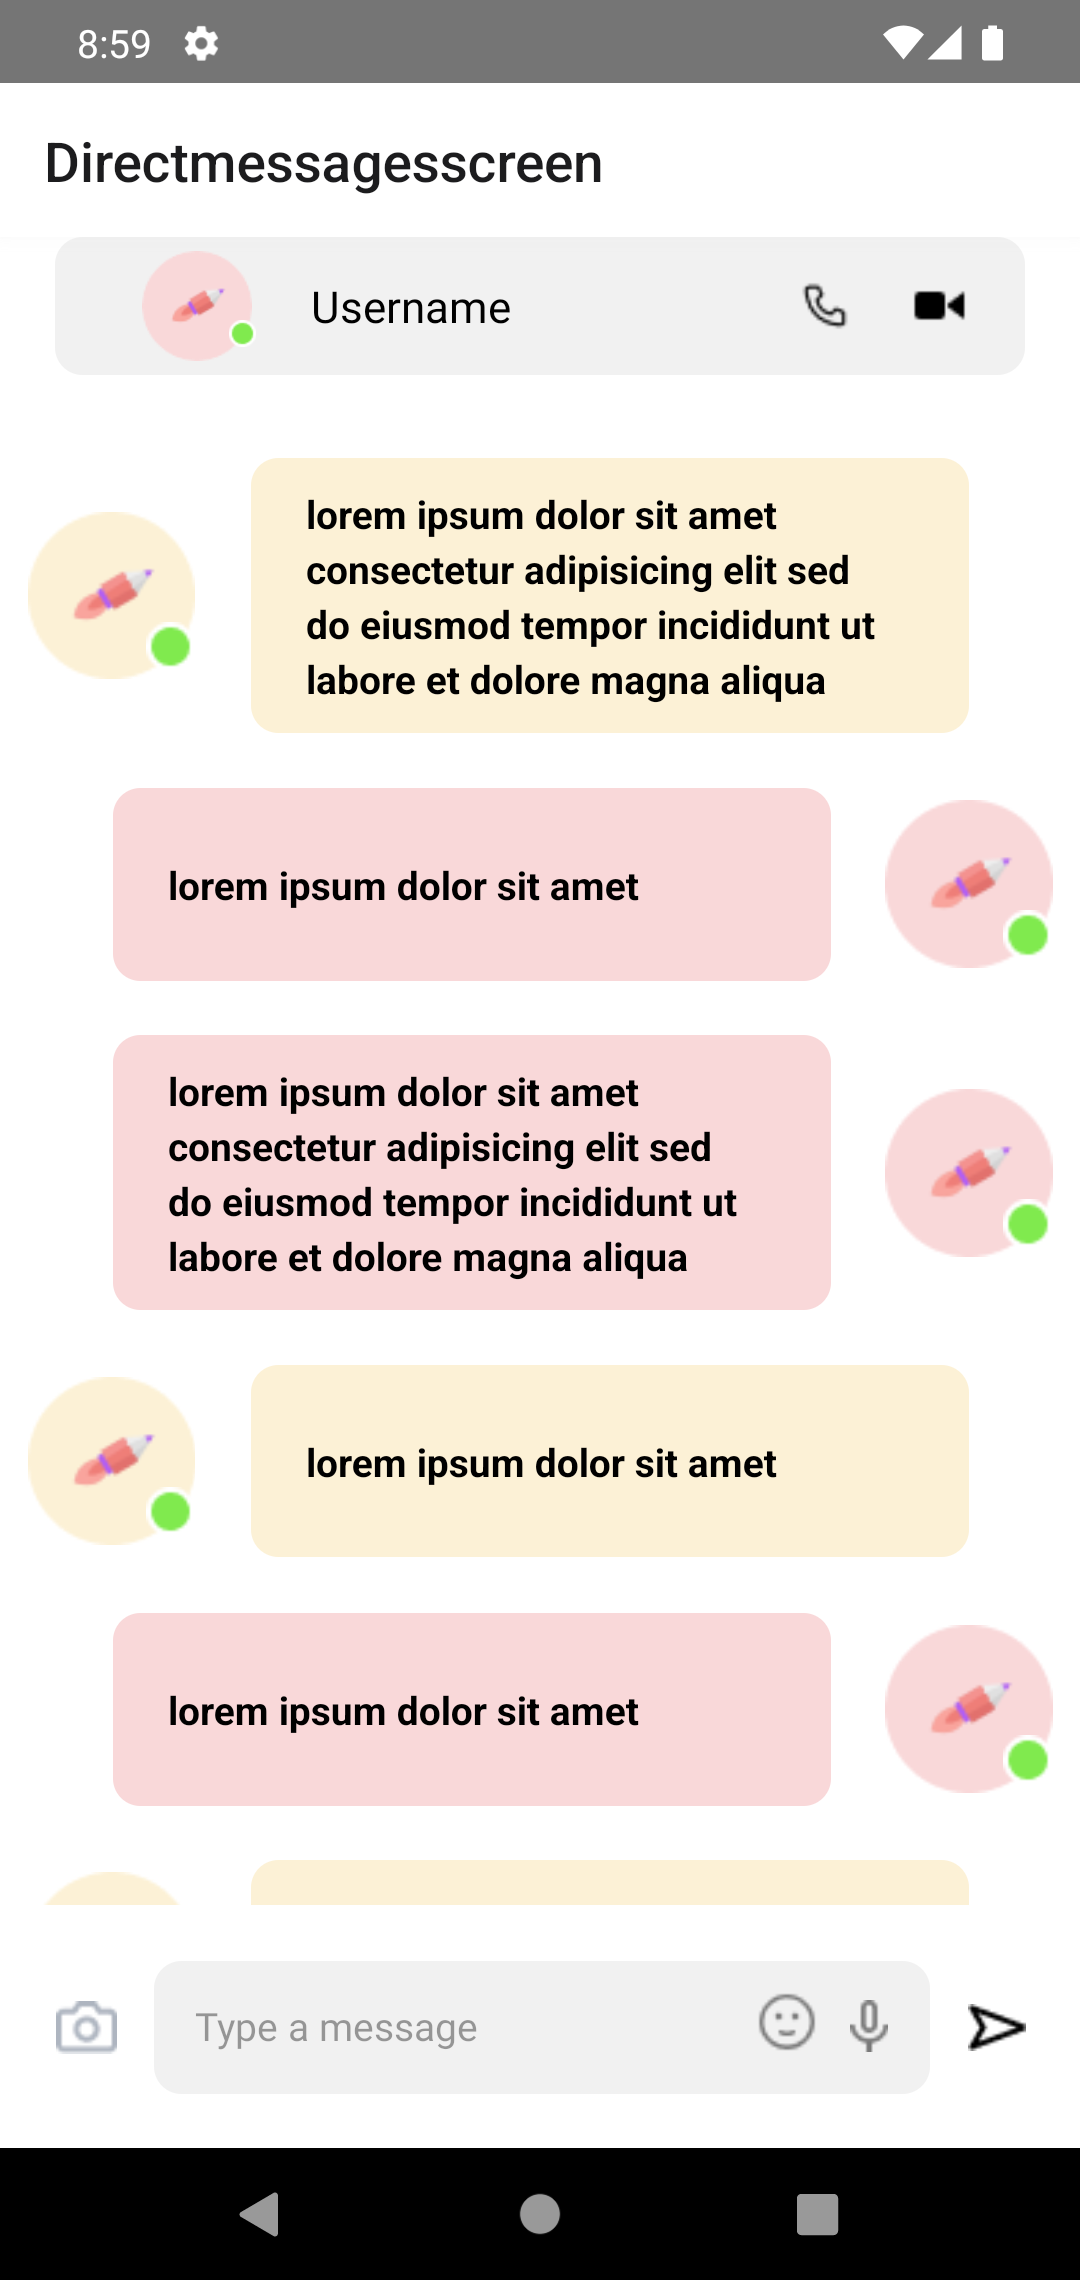
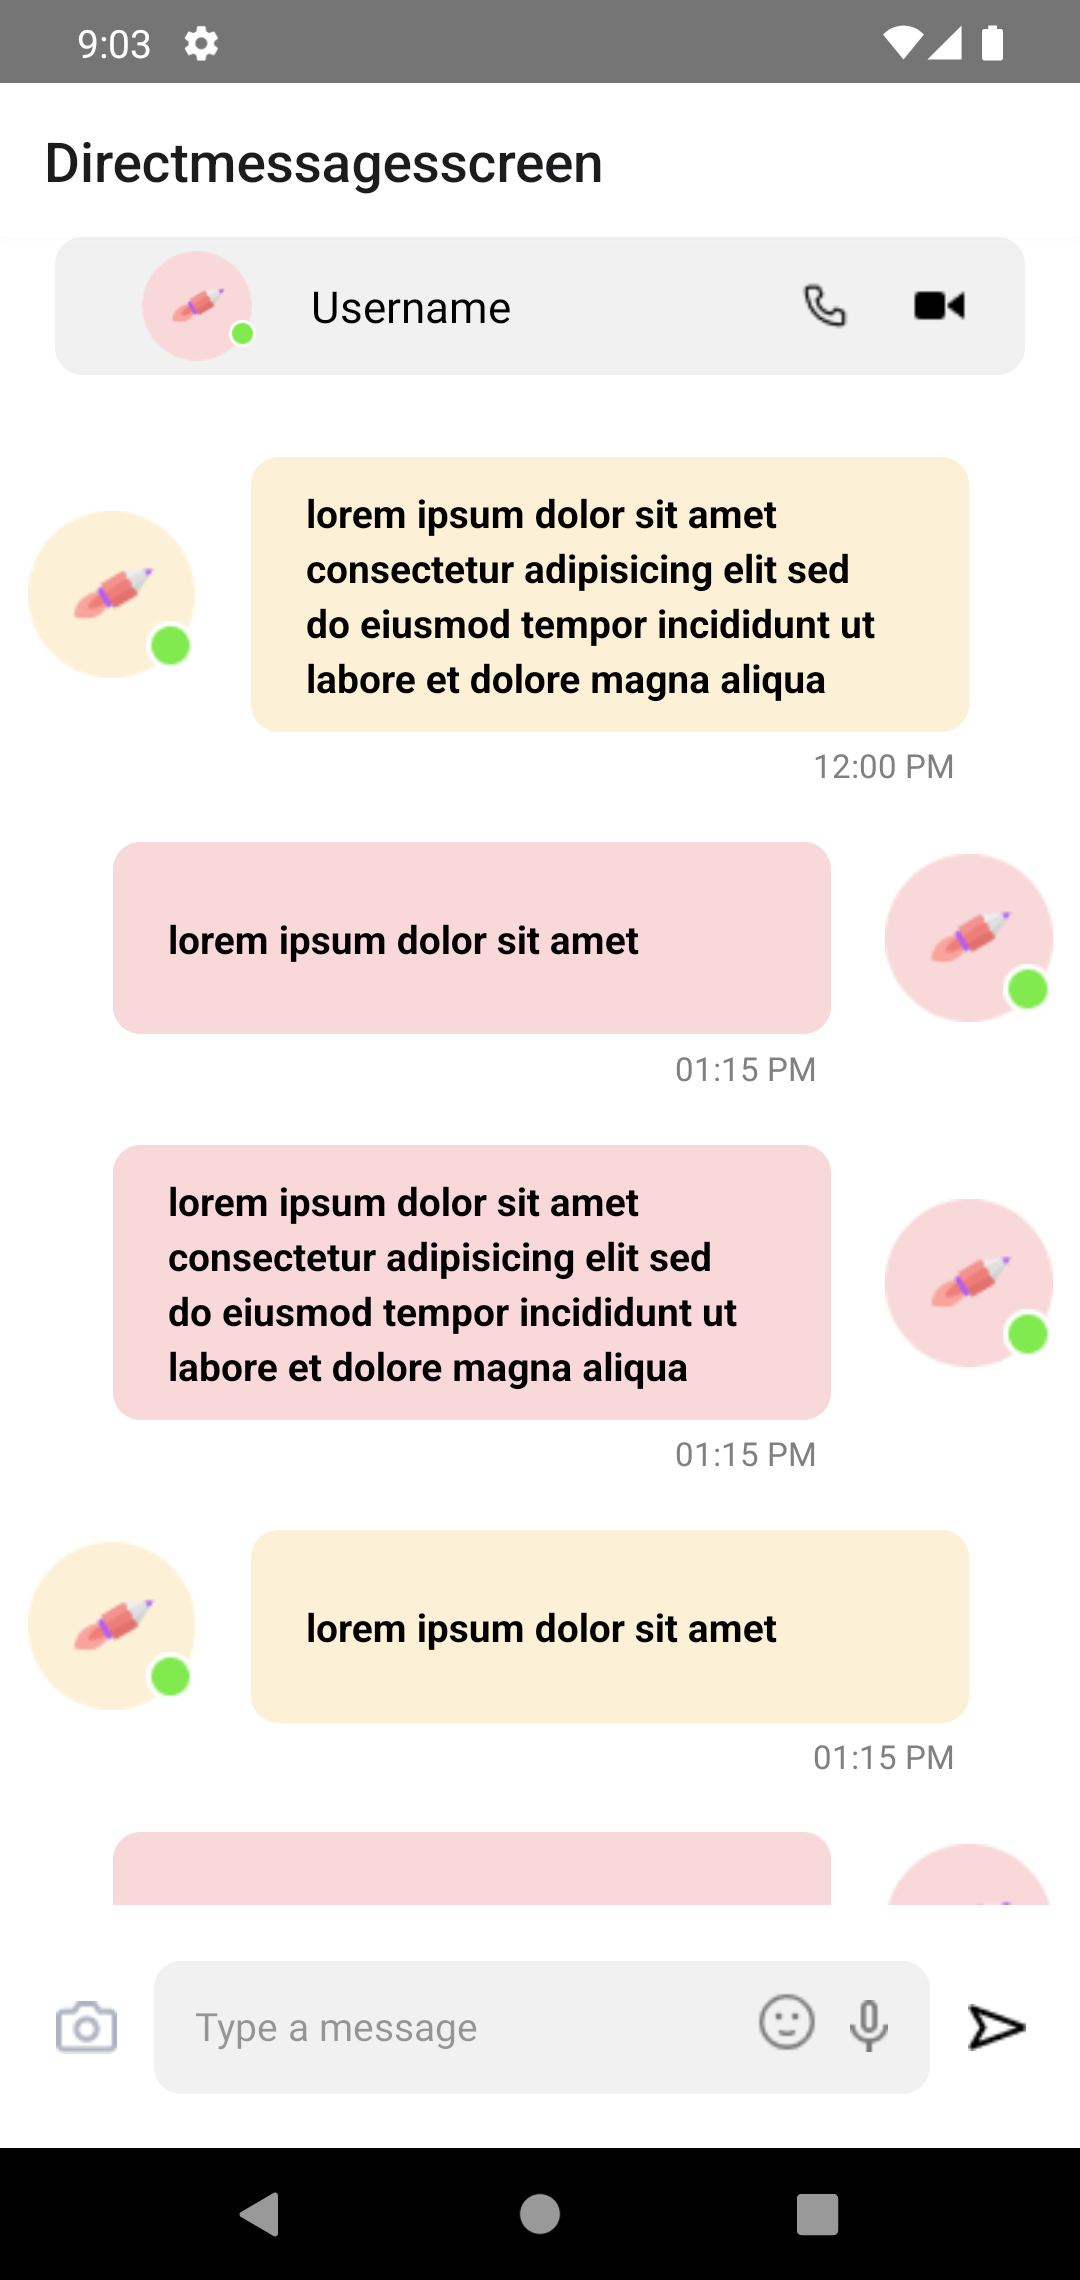
Directmessagesscreen messageTime text added

diff --git a/screens/Directmessagesscreen/index.js b/screens/Directmessagesscreen/index.js
@@ -143,6 +143,7 @@ const ConversationElement = ({ message }) => {
       </View>
       <View style={[styles.messageTextContainer, messageTextContainer]}>
         <Text style={styles.messageText}>{message.text}</Text>
+        <Text style={styles.messageTime}>{message.sentTime}</Text>
       </View>
     </View>
   );
@@ -193,7 +194,6 @@ const styles = StyleSheet.create({
   },
   body: {
     flex: 1,
-    paddingVertical: 10,
     marginTop: 10,
   },
   footer: {
@@ -228,6 +228,7 @@ const styles = StyleSheet.create({
     alignItems: 'center',
     margin: 10,
     justifyContent: 'flex-start',
+    marginVertical: 20,
   },
   messageTextContainer: {
     minHeight: 70,
@@ -251,6 +252,13 @@ const styles = StyleSheet.create({
     position: 'absolute',
     right: 0,
     top: 40,
+  },
+  messageTime: {
+    position: 'absolute',
+    right: 5,
+    bottom: -20,
+    color: 'grey',
+    fontSize: 12,
   },
 });
 export default DirectMessagesScreen;
